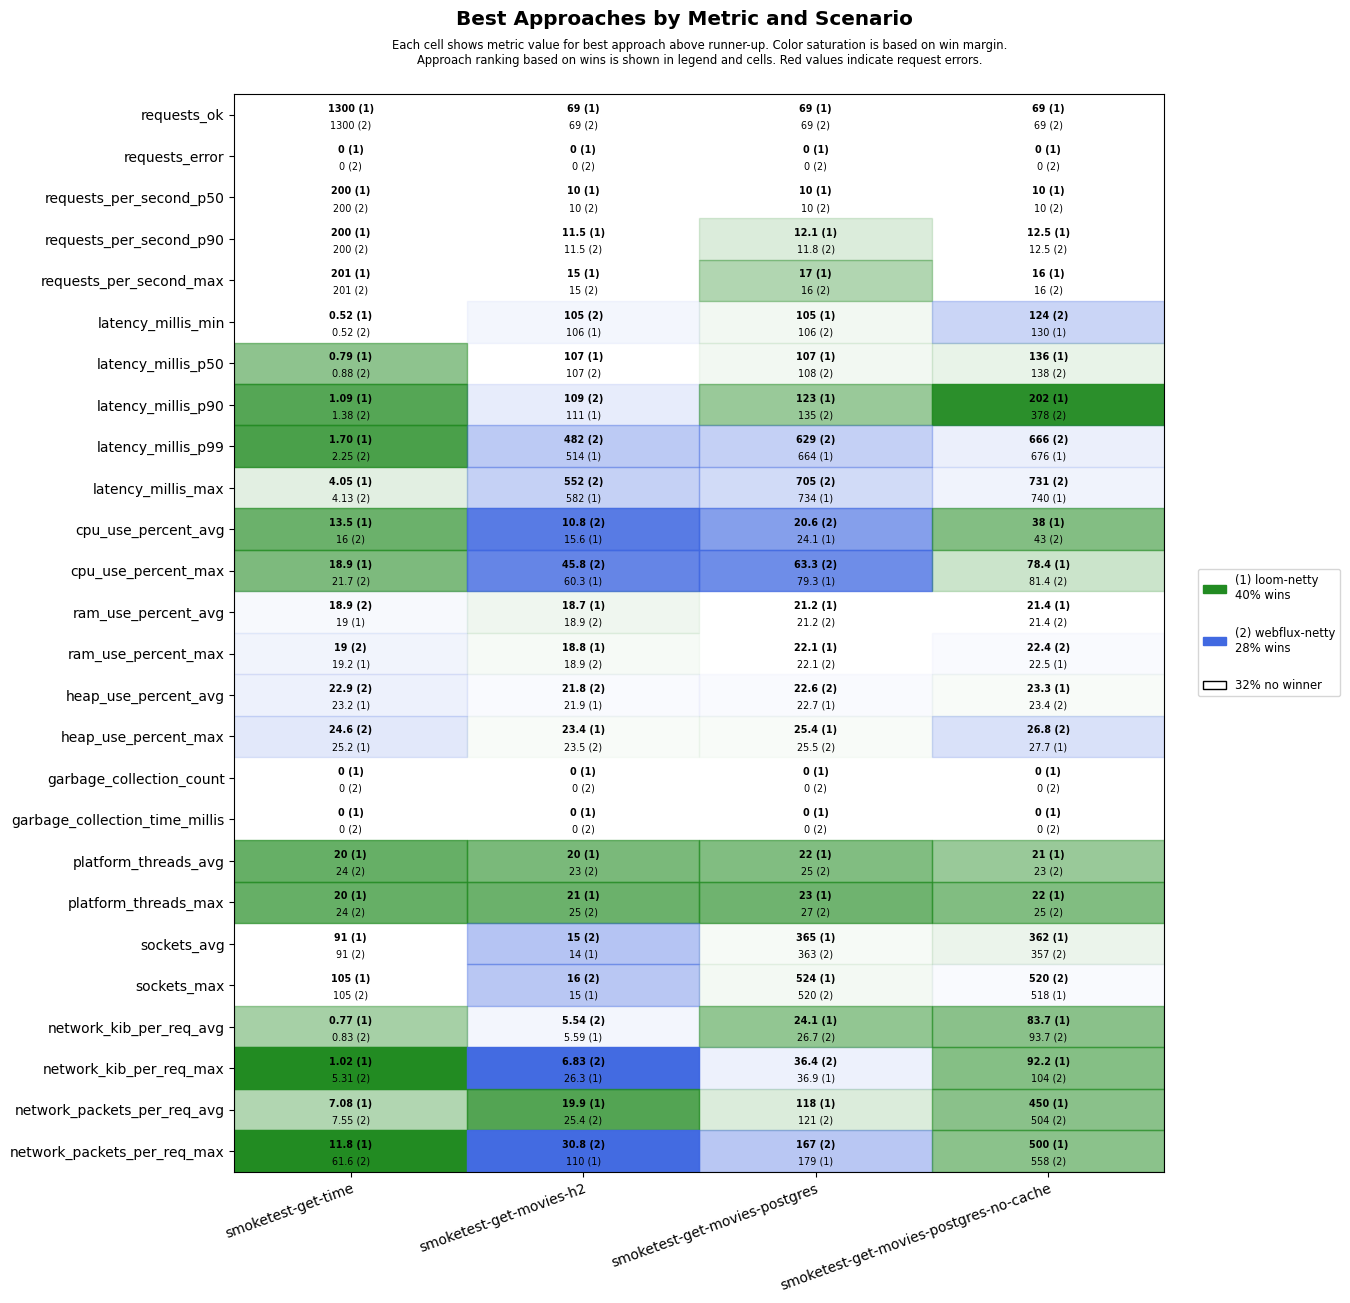
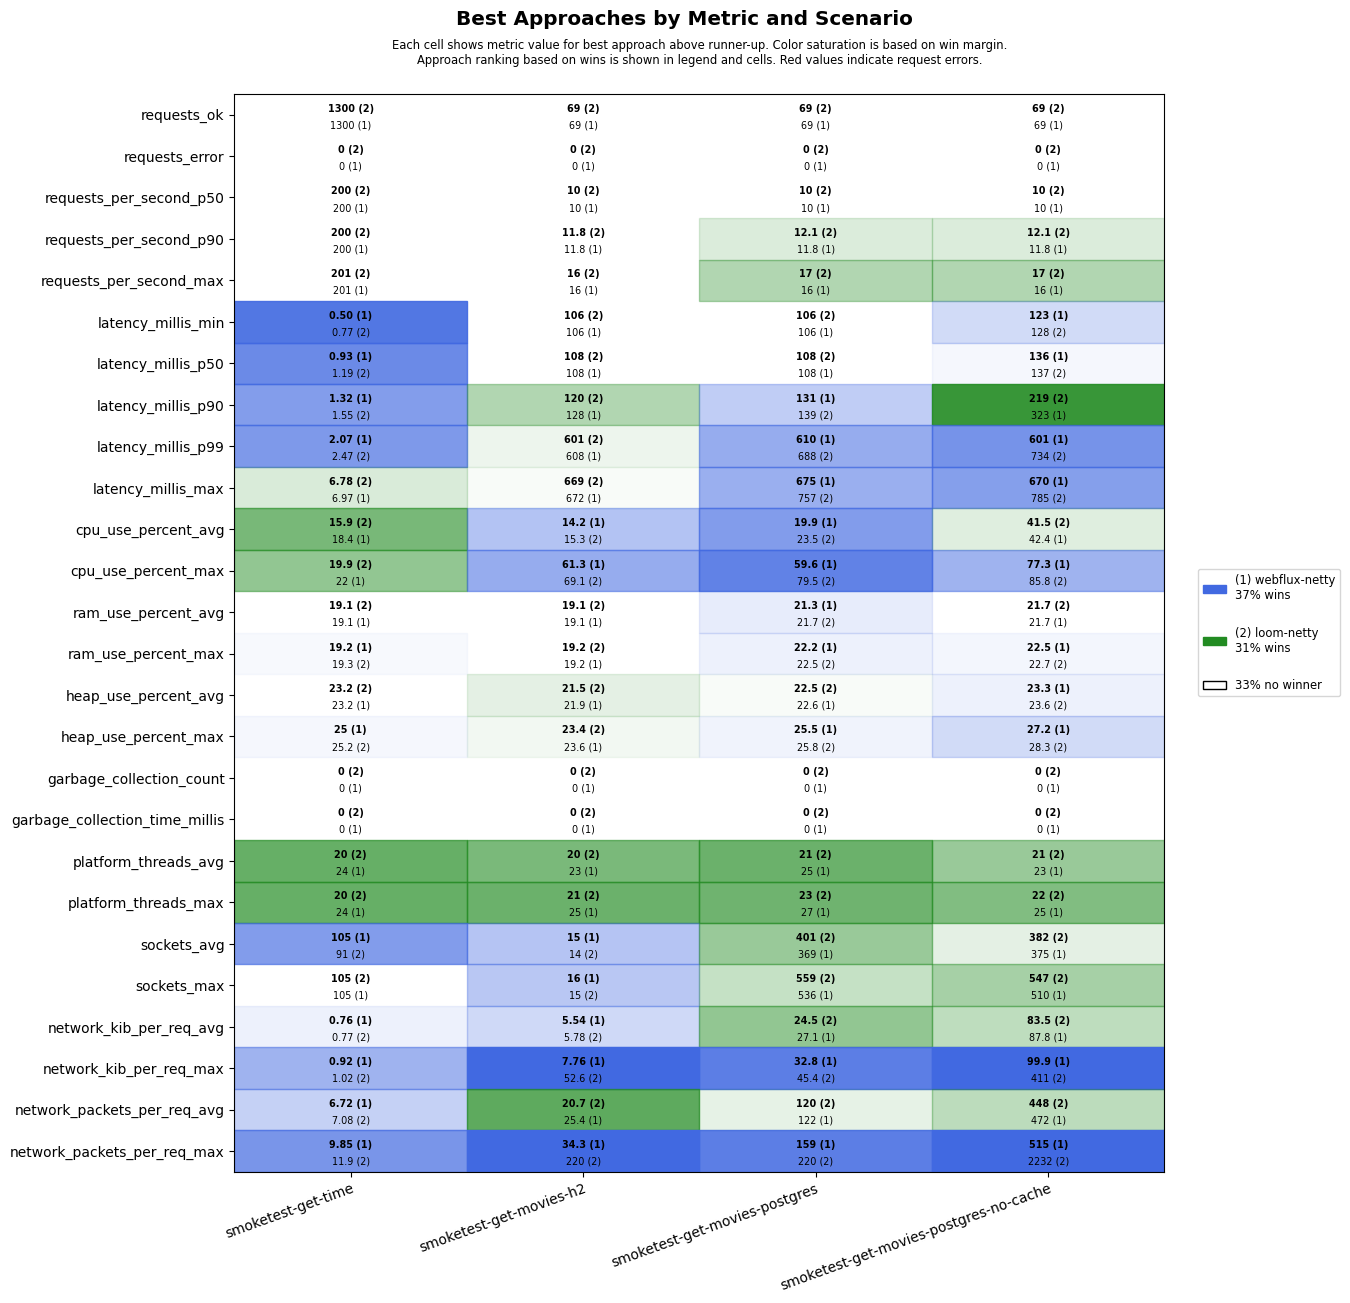
Apply automatic changes

diff --git a/results/ci/scenarios-smoketest/ubuntu-24.04/java-25/results.md b/results/ci/scenarios-smoketest/ubuntu-24.04/java-25/results.md
@@ -4,9 +4,9 @@
 
 | **Name**                | **Value** |
 |-------------------------|-----------|
-| **Start (UTC)** | 2026-06-22 11:08:18 |
-| **End (UTC)** | 2026-06-22 11:28:04 |
-| **Duration (hh:mm:ss)** | 00:19:46 |
+| **Start (UTC)** | 2026-06-22 17:55:21 |
+| **End (UTC)** | 2026-06-22 18:15:22 |
+| **Duration (hh:mm:ss)** | 00:20:01 |
 
 ## System Specs
 
@@ -17,7 +17,7 @@
 | **Python** | 3.12.3 |
 | **OS** | Ubuntu 24.04.4 LTS |
 | **Kernel** | 6.17.0-1018-azure |
-| **CPU** | AMD EPYC 9V74 80-Core Processor |
+| **CPU** | Intel(R) Xeon(R) Platinum 8370C CPU @ 2.80GHz |
 | **CPU Cores** | 4 |
 | **RAM** | 15Gi total, 12Gi available |
 | **Disk** | 158G total, 99G available |